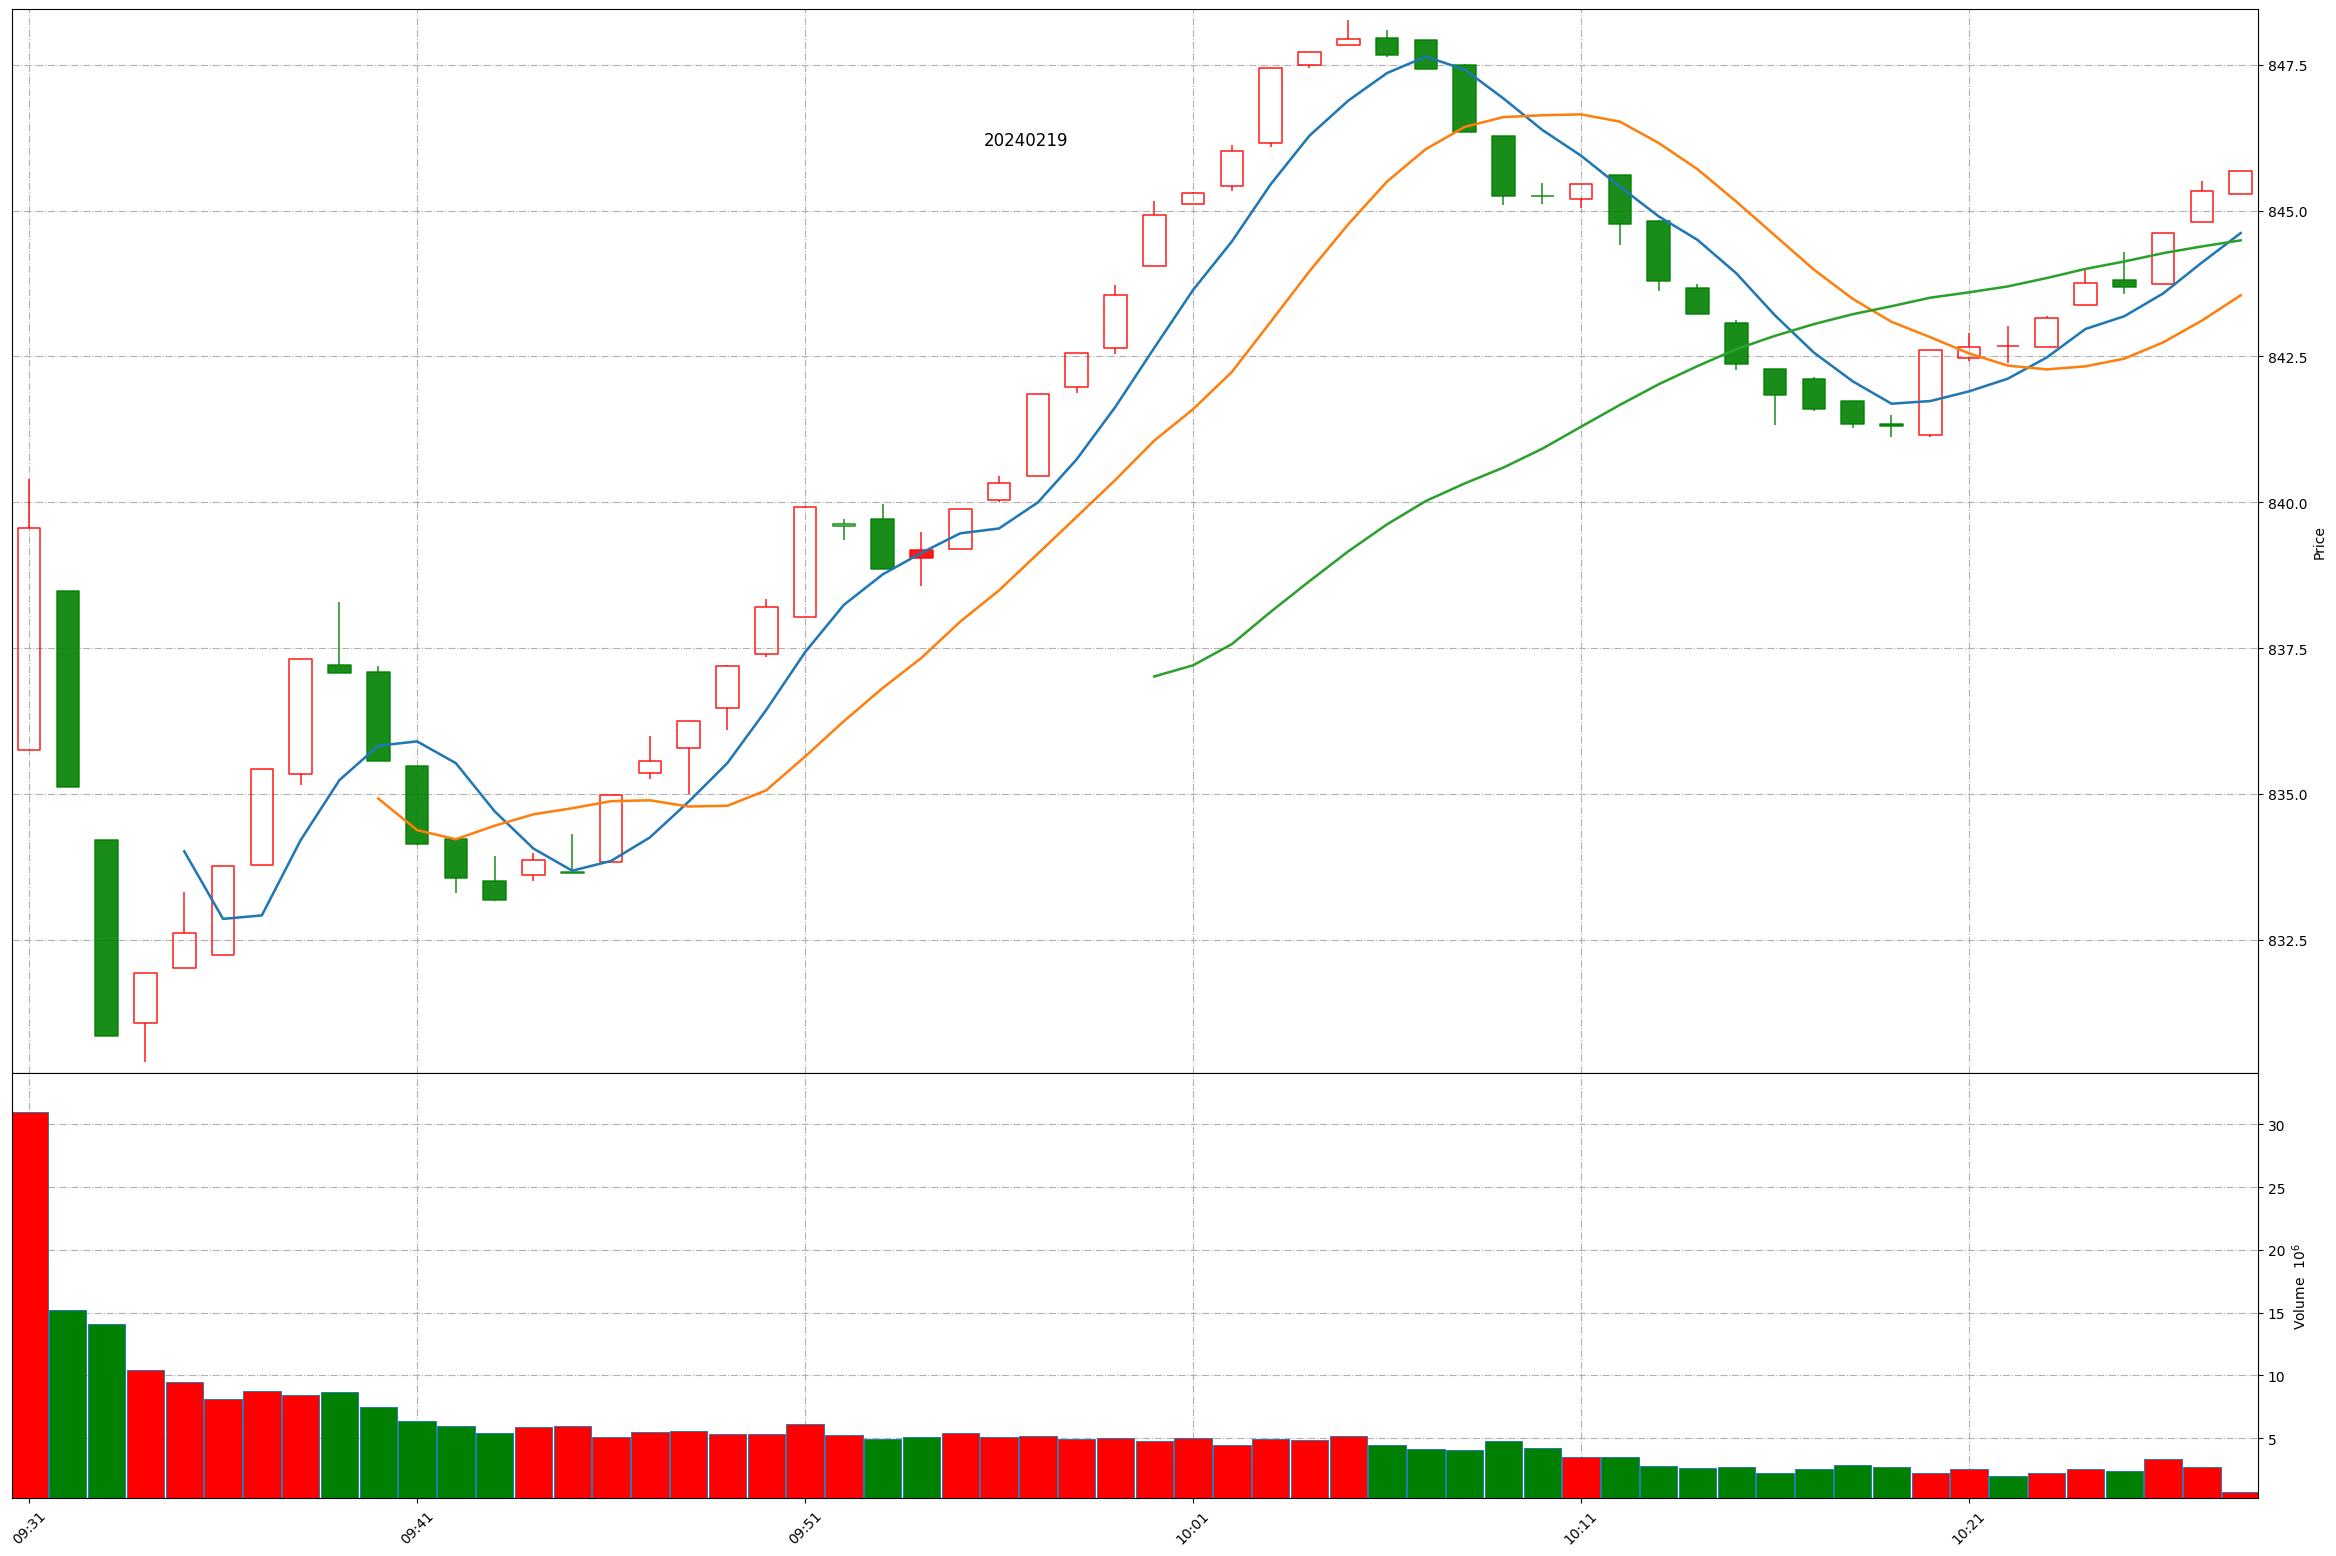
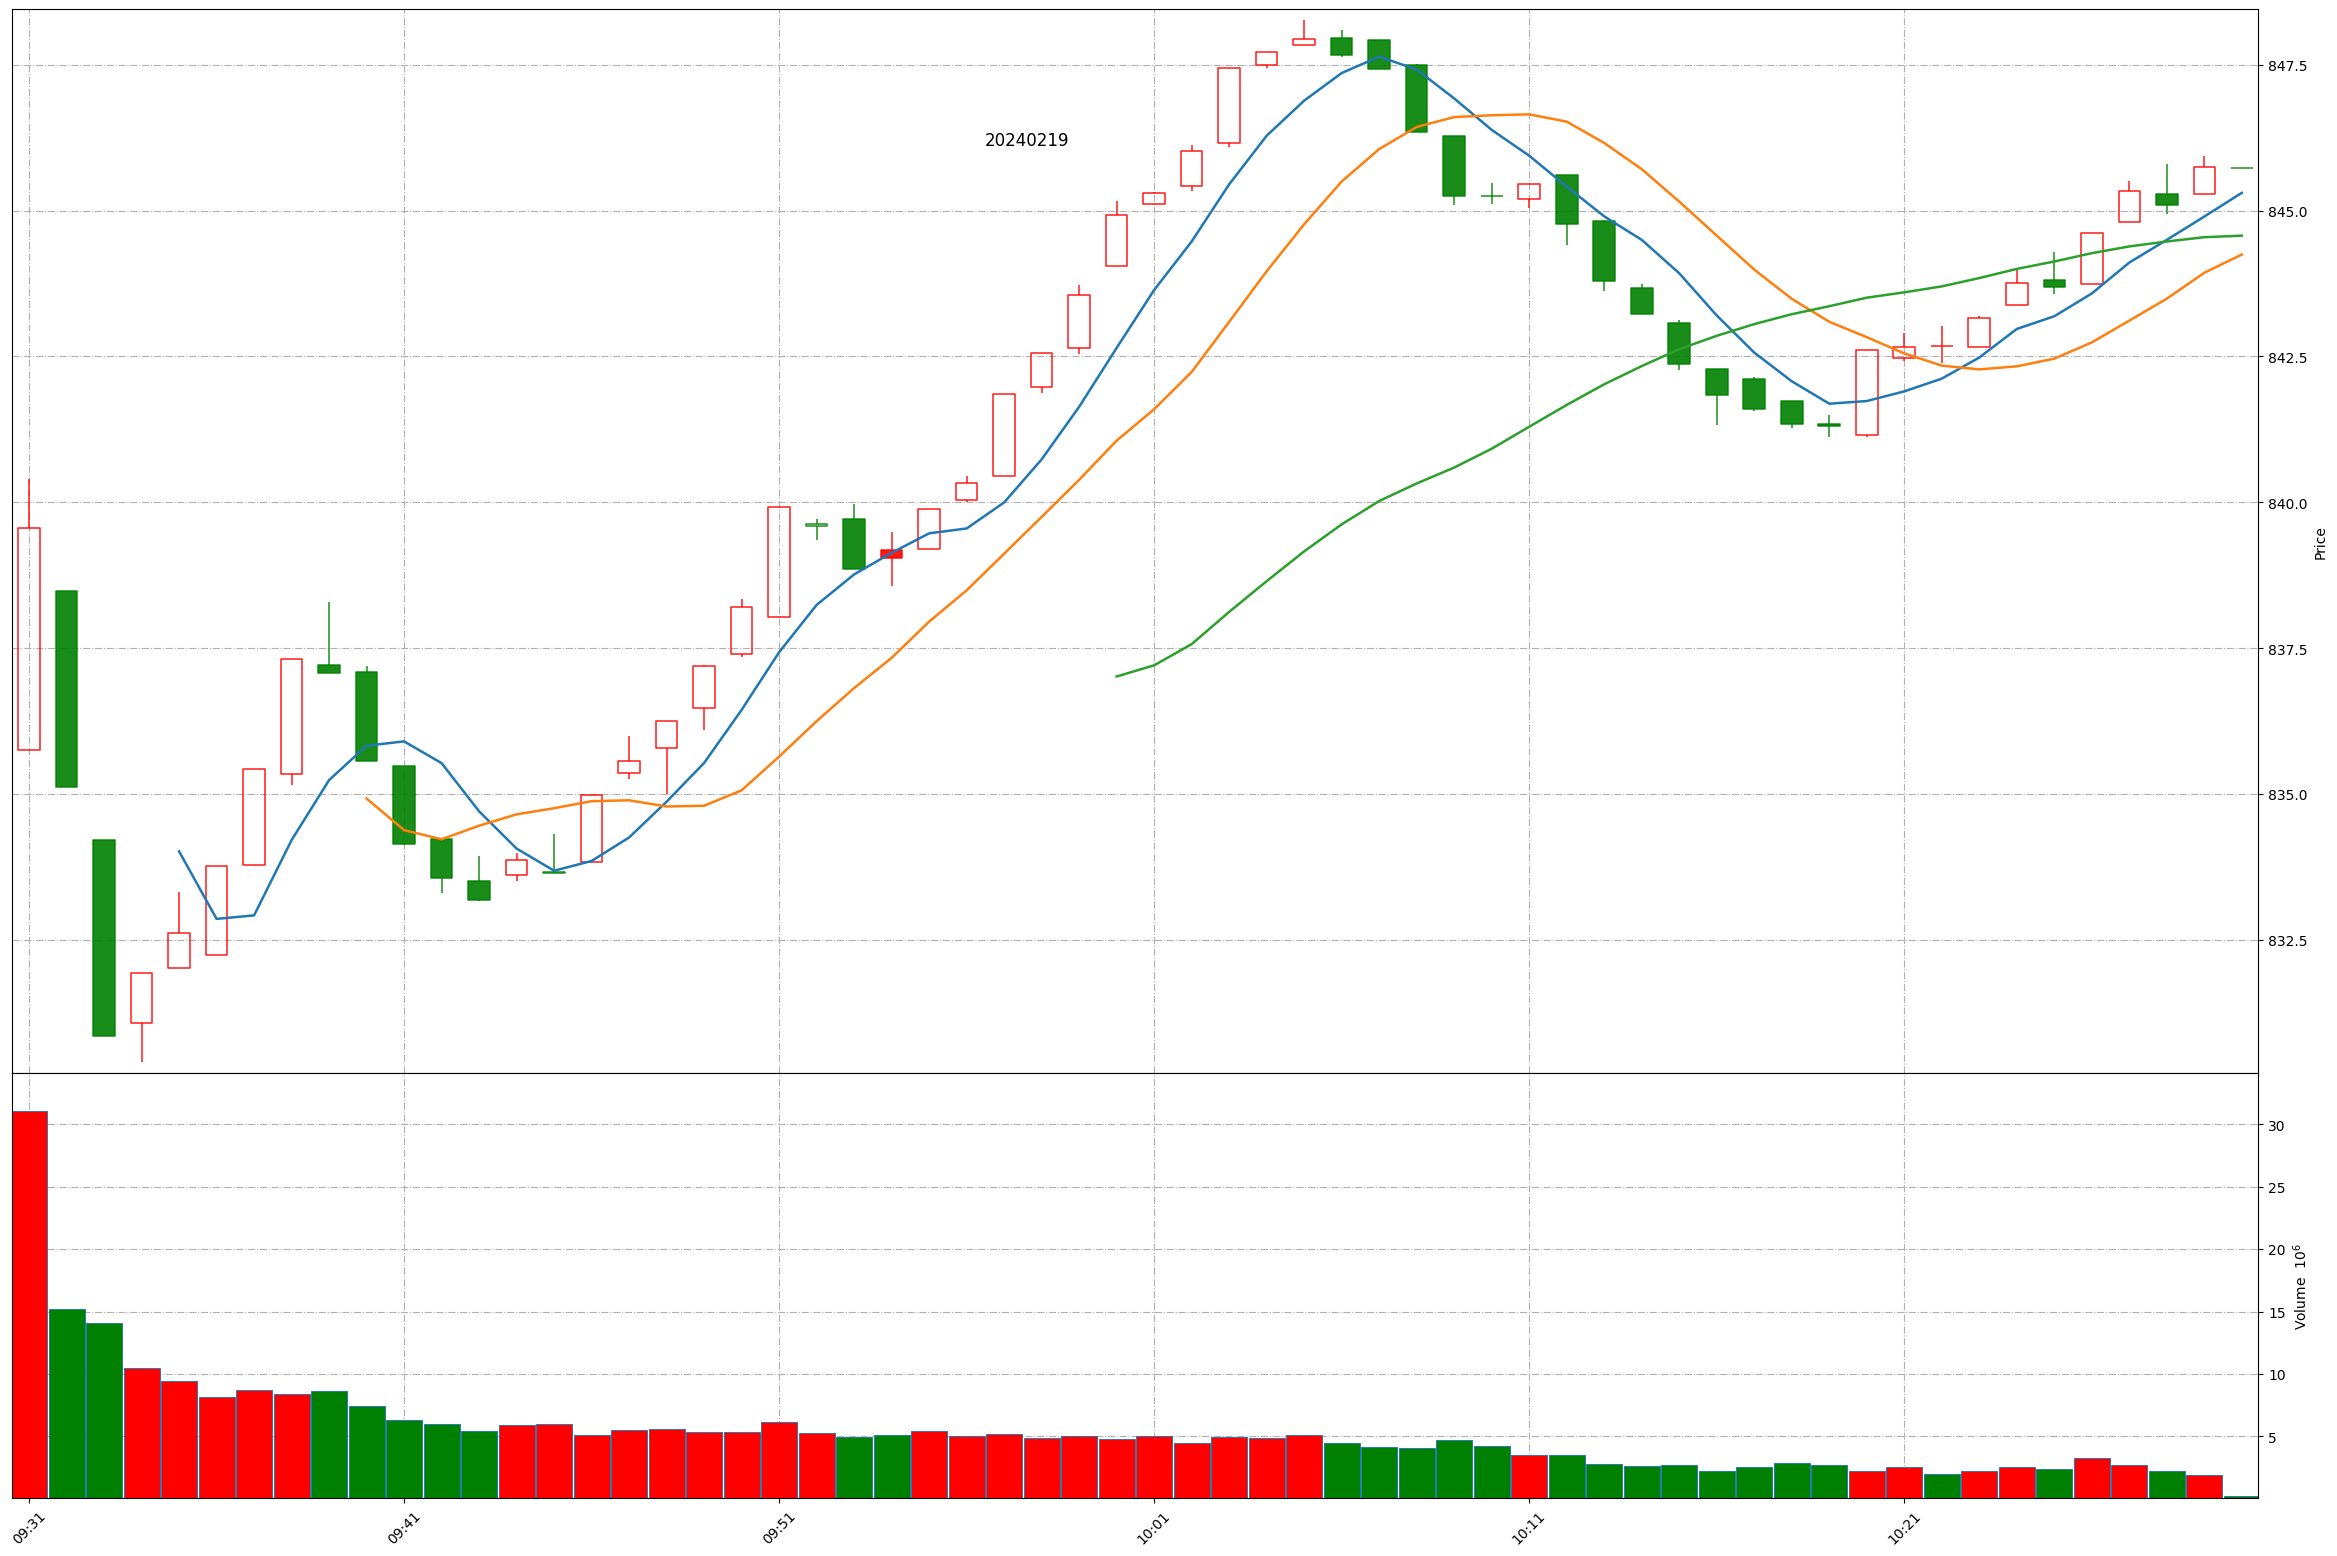
Github action update at 2024-02-19 10:29:10.

diff --git a/README.md b/README.md
@@ -1,11 +1,11 @@
 
 # Daily-A-share-market-quotes 每日 A 股指数（5min 更新）- 20240219
 
-### 上证指数 20240219 10:27
+### 上证指数 20240219 10:29
 ![](./fig/2024/2/20240219-sh000001.png)
 
-### 深证成指 20240219 10:27
+### 深证成指 20240219 10:29
 ![](./fig/2024/2/20240219-sz399001.png)
 
-### 北证50 20240219 10:27
+### 北证50 20240219 10:29
 ![](./fig/2024/2/20240219-bj899050.png)
